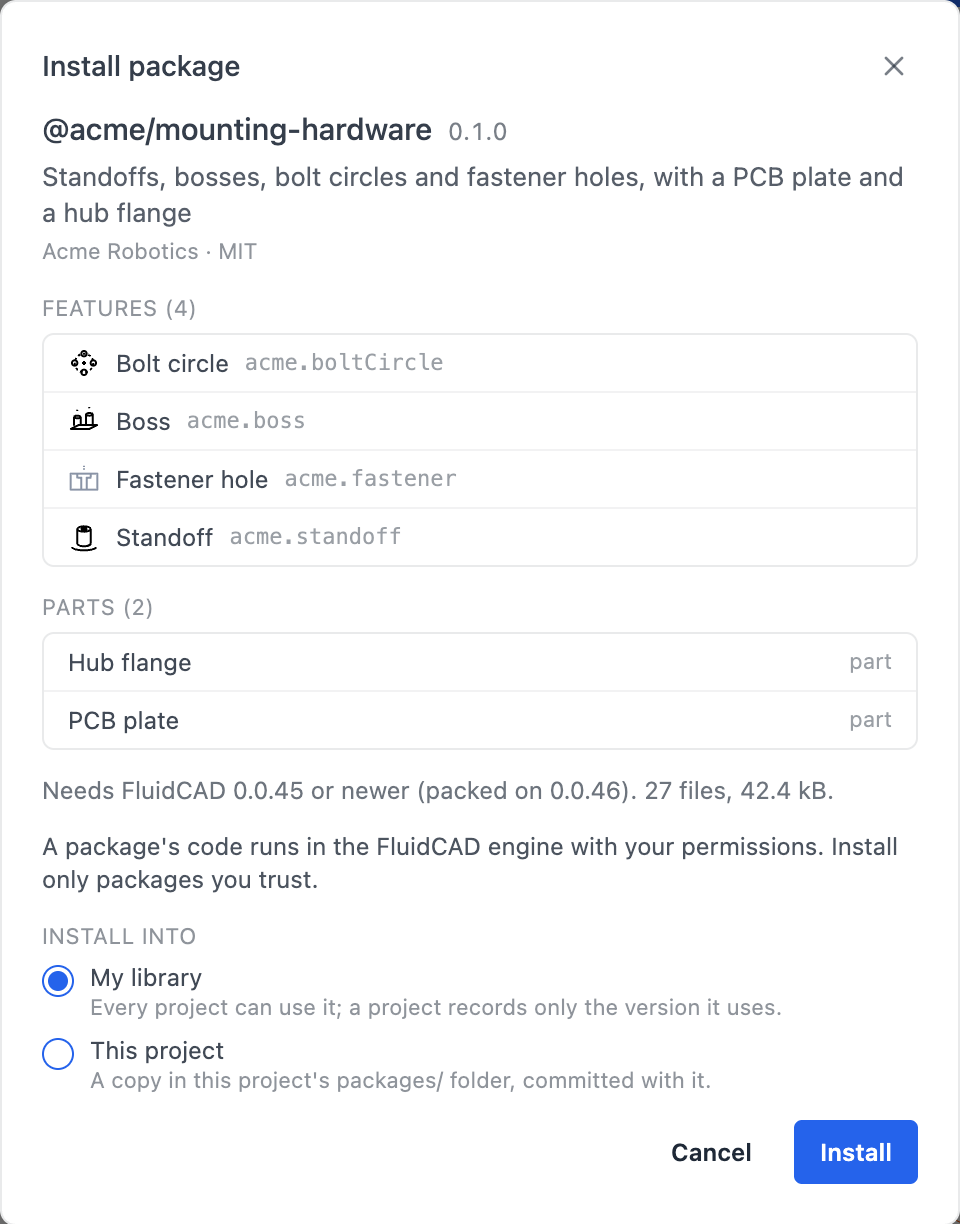
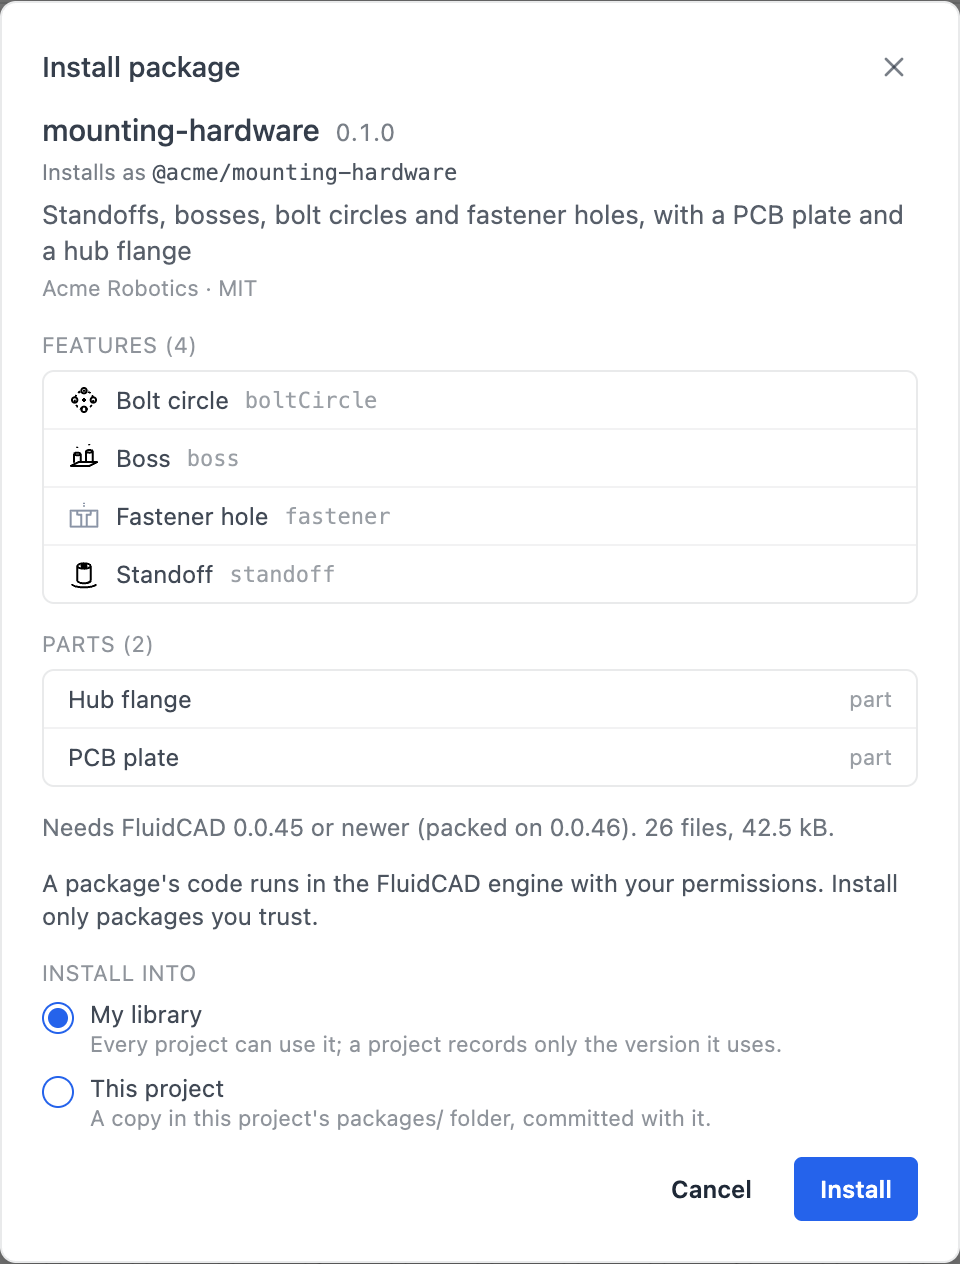
docs(website): package names without handles — the bare name in the package block, the public name the hub gives, file installs (@local, a matching pin, --as), plain feature ids, and the Install package dialog's Installs as

diff --git a/website/docs/custom-features/_examples/standoff.feature.js b/website/docs/custom-features/_examples/standoff.feature.js
@@ -12,8 +12,8 @@ export class Standoff extends Feature.with({
   outer: { type: 'length', default: 6, min: 0, label: 'Boss diameter' },
   hole: { type: 'length', default: 3, min: 0, label: 'Hole diameter' },
 }) {
-  // The feature's type, namespaced: it names the feature in every timeline.
-  static id = 'acme.standoff';
+  // The feature's type: it names the feature in every timeline.
+  static id = 'standoff';
 
   // Returns the solid the feature adds; FluidCAD fuses it with the part.
   buildTool() {
